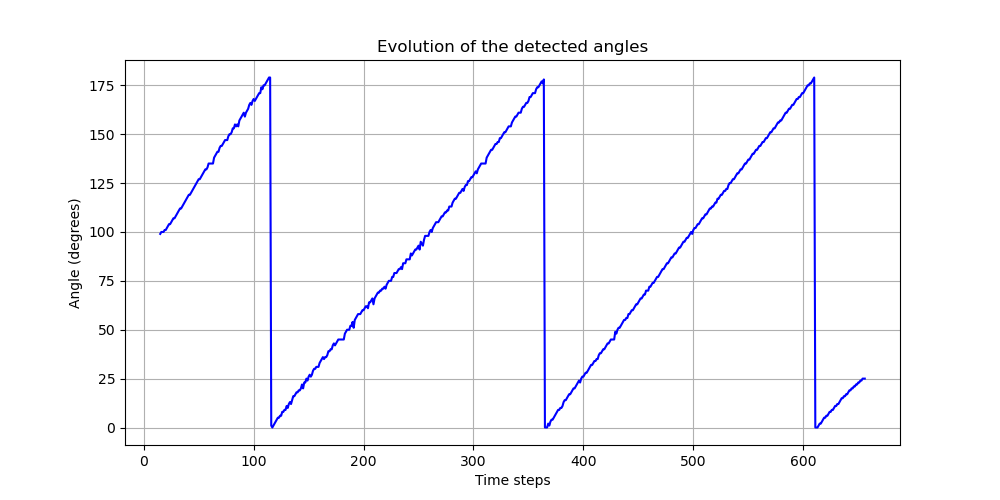
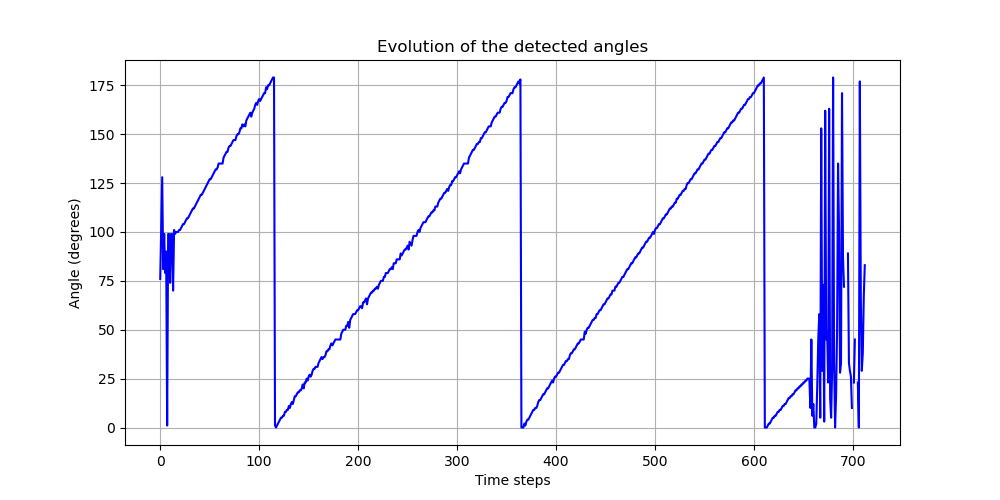
Added a script to plot the history of events and detected lines, and saves the images in a history directory. Creates a gif animation. Saves the angles evolution to a CSV file and plots the evolution of the angle of the wheel.

diff --git a/detect_wheel_position.py b/detect_wheel_position.py
@@ -1,0 +1,107 @@
+import os
+from PIL import Image
+import matplotlib.pyplot as plt
+import pandas as pd
+import utils
+import numpy as np
+import re
+
+
+def display_events_and_line(
+        resolution: tuple,
+        events: np.ndarray,
+        line_parameters: tuple,
+        display_image: bool = False,
+        save_image: bool = False,
+        image_path: str = None,
+) -> None:
+    fig = plt.figure(figsize=(resolution[0] / 100, resolution[1] / 100))
+    plt.xlim(0, resolution[0])
+    plt.ylim(resolution[1], 0)
+
+    x, y = zip(*events)
+    plt.scatter(x, y, color='blue', label='Events', s=5)
+
+    if line_parameters is not None:
+        rho, theta = line_parameters
+        a = np.cos(theta)
+        b = np.sin(theta)
+        x0 = a * rho
+        y0 = b * rho
+        x1 = int(x0 + 1000 * (-b))
+        y1 = int(y0 + 1000 * a)
+        x2 = int(x0 - 1000 * (-b))
+        y2 = int(y0 - 1000 * a)
+        plt.plot([x1, x2], [y1, y2], color='red', label='Detected Line')
+
+    plt.legend()
+
+    if save_image:
+        path, _ = os.path.split(image_path)
+        utils.handle_path(path)
+
+        plt.savefig(image_path)
+
+    if display_image:
+        plt.show()
+
+    plt.close(fig)
+
+
+def plot_angle_evolution(csv_angles_file: str) -> None:
+    angles_data = pd.read_csv(csv_angles_file, header=None, names=['key', 'value'])
+
+    fig = plt.figure(figsize=(10, 5))
+    plt.plot(np.array(angles_data['key']), np.array(angles_data['value']), linestyle='-', color='blue')
+    plt.xlabel('Time steps')
+    plt.ylabel('Angle (degrees)')
+    plt.title('Evolution of the detected angles')
+    plt.grid(True)
+    plt.savefig('angles_evolution.png')
+    plt.show()
+    plt.close(fig)
+
+
+def create_gif_from(source_images_path: str, animation_path: str) -> None:
+    path, _ = os.path.split(source_images_path)
+    utils.handle_path(path)
+
+    images = []
+    file_names = sorted(os.listdir(source_images_path),
+                        key=lambda x: int(re.findall(r'\d+', x)[0]) if re.findall(r'\d+', x) else float('inf'))
+    for file_name in file_names:
+        if file_name.endswith('.png'):
+            file_path = os.path.join(source_images_path, file_name)
+            images.append(Image.open(file_path))
+
+    if images:
+        images[0].save(animation_path, save_all=True, append_images=images[1:], loop=1)
+
+
+if __name__ == '__main__':
+    data = utils.load_data_from('dataset/dvSave-2024_11_26_11_34_19.aedat4')
+    source_resolution = utils.event_stream_resolution(data)
+    source_events = utils.get_events_from(data)
+
+    detected_angles = {}
+    slices = utils.slice_every_events(source_events, 800)
+
+    for i, s in enumerate(slices):
+        angle, line_params = utils.detect_line_angle(source_resolution, s)
+        detected_angles[i] = angle
+        display_events_and_line(
+            source_resolution,
+            s,
+            line_params,
+            save_image=True,
+            image_path=f'images_dvSave-2024_11_26_11_34_19/image_slice_{i}.png'
+        )
+
+    utils.save_dict_to_csv(detected_angles, './detected_angles_dvSave-2024_11_26_11_34_19.csv')
+
+    plot_angle_evolution('./detected_angles_dvSave-2024_11_26_11_34_19.csv')
+
+    create_gif_from(
+        './images_dvSave-2024_11_26_11_34_19',
+        './images_dvSave-2024_11_26_11_34_19/reference_dvSave-2024_11_26_11_34_19.gif'
+    )
